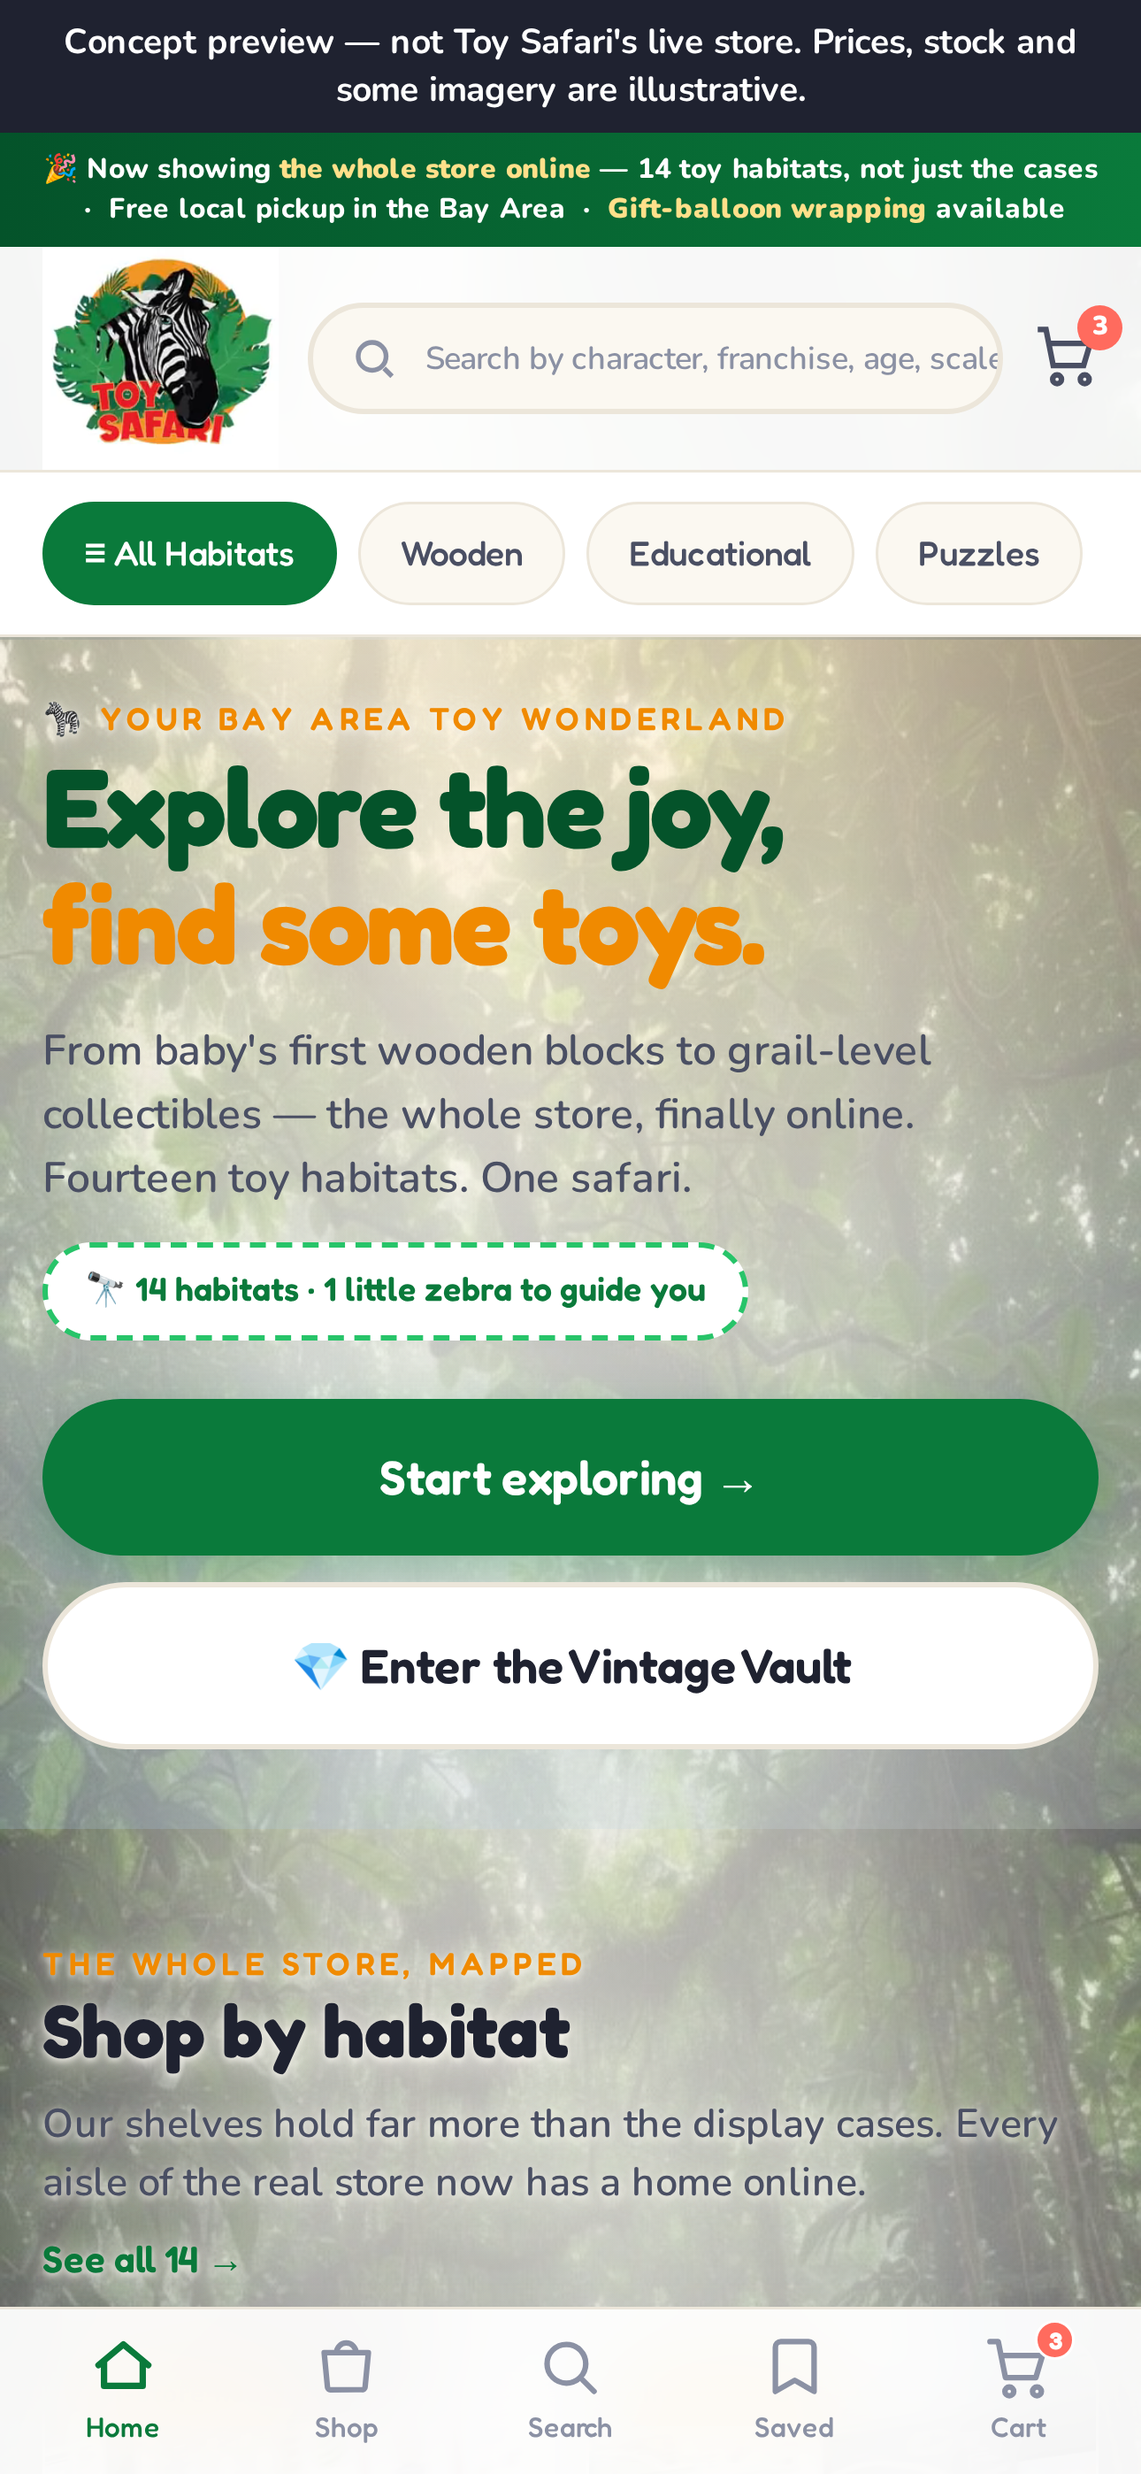
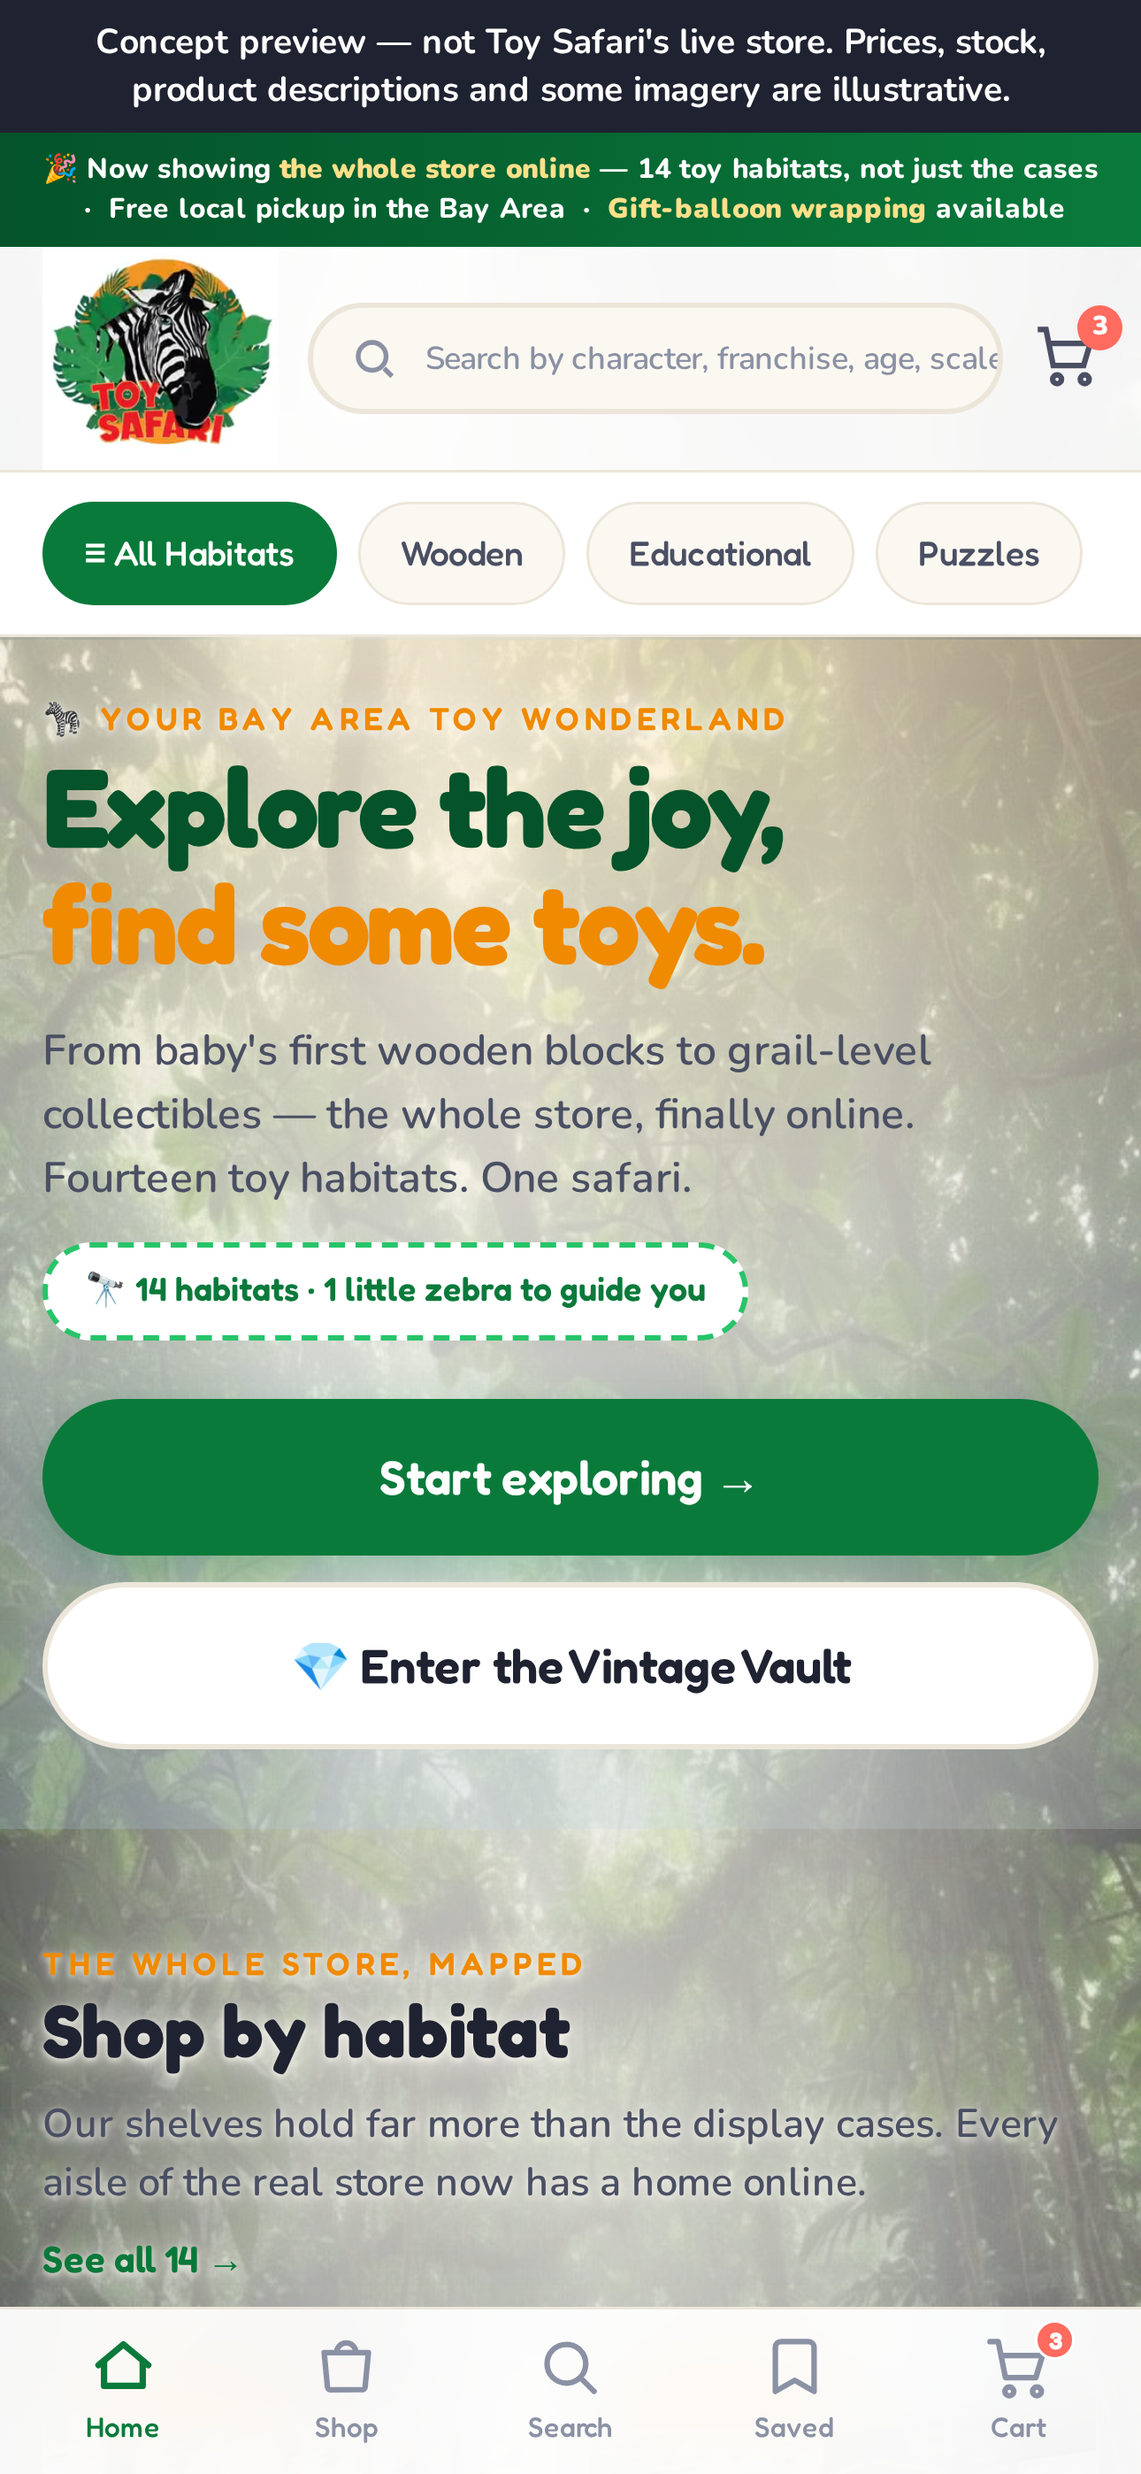
fix(content): remove invented counts + deck COA claim; strip discloses descriptions
Applies merritt's line: remove a specific fact about a real item or a
specific number nobody verified; disclose generic marketing prose as
illustrative; keep the client's own words.
- pitch deck: drop "certificate of authenticity included" (same Ahsoka
  claim #6 removed from the product page; the deck has no strip)
- category.html: drop "96 authenticated pieces, every condition documented"
- shop.html: "300+ signed & sealed grails" -> "signed & sealed grails"
- strip on 11 pages now discloses product descriptions as illustrative,
  covering "each authenticated", the categories.json tagline and the
  product page's condition copy
- re-shot the deck's 3 site screenshots so their strip matches
Kept: assets/data_p1.json "SWAU authenticated item" (client's own catalogue).

Claude-Session: https://claude.ai/code/session_011YC7QPa91iyFuK1BhfujVt

Head: toysafari-pitch

Changed region(s): [[0.062, 0.0, 0.9302, 0.0622], [0.093, 0.0933, 0.186, 0.1867]]

diff --git a/shop.html b/shop.html
@@ -25,7 +25,7 @@
   .shop-note{background:var(--amber-soft,#fff3d6);border:1px solid var(--amber,#ffce6b);border-radius:14px;padding:14px 18px;font-weight:700;color:var(--ink,#2a2118);font-size:14px;margin:18px 0}
   @media(max-width:760px){.shop-hero{padding:24px 22px}.shop-hero h1{font-size:26px}.cat-sec-head h2{font-size:19px}.cat-sec-head .em{font-size:27px}}
 </style></head>
-<body class=""><div class="concept-strip" role="note">Concept preview — not Toy Safari's live store. Prices, stock and some imagery are illustrative.</div><div class="promo">🎉 Now showing <b>the whole store online</b> — 14 toy habitats, not just the cases &nbsp;·&nbsp; Free local pickup in the Bay Area &nbsp;·&nbsp; <b>Gift-balloon wrapping</b> available</div>
+<body class=""><div class="concept-strip" role="note">Concept preview — not Toy Safari's live store. Prices, stock, product descriptions and some imagery are illustrative.</div><div class="promo">🎉 Now showing <b>the whole store online</b> — 14 toy habitats, not just the cases &nbsp;·&nbsp; Free local pickup in the Bay Area &nbsp;·&nbsp; <b>Gift-balloon wrapping</b> available</div>
 <header class="hdr">
   <div class="wrap"><div class="hdr-row">
     <a class="brand" href="index.html"><img src="assets/img/zebra.png" alt="Toy Safari">
@@ -90,7 +90,7 @@
 
   <section class="cat-sec" id="books"><div class="cat-sec-head"><div class="l"><span class="em">📚</span><div><h2>Children's Books</h2><div class="tl">Board books to early readers</div></div></div><div class="r"><span class="ct" data-catalog-count="books">—</span> in stock<a class="va" href="category.html">View all →</a></div></div><div class="cat-grid" data-catalog="books" data-limit="10"></div></section>
 
-  <div class="shop-note" style="text-align:center">💎 Looking for authenticated collector pieces? The <a href="category.html" style="color:var(--blue-deep,#2f5fa8);font-weight:800">Vintage Vault →</a> holds 300+ signed &amp; sealed grails.</div>
+  <div class="shop-note" style="text-align:center">💎 Looking for authenticated collector pieces? The <a href="category.html" style="color:var(--blue-deep,#2f5fa8);font-weight:800">Vintage Vault →</a> holds signed &amp; sealed grails.</div>
 </div>
 <footer class="ft"><div class="wrap">
       <div class="ft-grid">

diff --git a/index.html b/index.html
@@ -7,7 +7,7 @@
 <meta name="apple-mobile-web-app-title" content="Toy Safari">
 <title>Toy Safari — Explore the joy, find some toys</title>
 <link rel="stylesheet" href="assets/css/safari.css"></head>
-<body class=""><div class="concept-strip" role="note">Concept preview — not Toy Safari's live store. Prices, stock and some imagery are illustrative.</div><div class="promo">🎉 Now showing <b>the whole store online</b> — 14 toy habitats, not just the cases &nbsp;·&nbsp; Free local pickup in the Bay Area &nbsp;·&nbsp; <b>Gift-balloon wrapping</b> available</div>
+<body class=""><div class="concept-strip" role="note">Concept preview — not Toy Safari's live store. Prices, stock, product descriptions and some imagery are illustrative.</div><div class="promo">🎉 Now showing <b>the whole store online</b> — 14 toy habitats, not just the cases &nbsp;·&nbsp; Free local pickup in the Bay Area &nbsp;·&nbsp; <b>Gift-balloon wrapping</b> available</div>
 <header class="hdr">
   <div class="wrap"><div class="hdr-row">
     <a class="brand" href="index.html"><video class="brand-mark" autoplay muted loop playsinline poster="assets/brand/logo-mark-poster.png" aria-label="Toy Safari"><source src="assets/brand/logo-mark.webm" type="video/webm"><source src="assets/brand/logo-mark.mp4" type="video/mp4"><picture><source type="image/avif" srcset="assets/brand/logo-mark-poster.avif"><source type="image/webp" srcset="assets/brand/logo-mark-poster.webp"><img width="240" height="226" decoding="async" loading="lazy" src="assets/brand/logo-mark-poster.png" alt="Toy Safari"></picture></video>

diff --git a/category.html b/category.html
@@ -7,7 +7,7 @@
 <meta name="apple-mobile-web-app-title" content="Toy Safari">
 <title>Star Wars Collectibles — Toy Safari</title>
 <link rel="stylesheet" href="assets/css/safari.css"></head>
-<body class=""><div class="concept-strip" role="note">Concept preview — not Toy Safari's live store. Prices, stock and some imagery are illustrative.</div><div class="promo">🎉 Now showing <b>the whole store online</b> — 14 toy habitats, not just the cases &nbsp;·&nbsp; Free local pickup in the Bay Area &nbsp;·&nbsp; <b>Gift-balloon wrapping</b> available</div>
+<body class=""><div class="concept-strip" role="note">Concept preview — not Toy Safari's live store. Prices, stock, product descriptions and some imagery are illustrative.</div><div class="promo">🎉 Now showing <b>the whole store online</b> — 14 toy habitats, not just the cases &nbsp;·&nbsp; Free local pickup in the Bay Area &nbsp;·&nbsp; <b>Gift-balloon wrapping</b> available</div>
 <header class="hdr">
   <div class="wrap"><div class="hdr-row">
     <a class="brand" href="index.html"><img src="assets/img/zebra.png" alt="Toy Safari">
@@ -44,7 +44,7 @@
   <div class="cat-hero">
     <div><span class="eyebrow" style="color:#9dc0f0">💎 Vintage Vault · Franchise</span>
       <h1>Star Wars Collectibles</h1>
-      <p>Sealed Hot Toys, signed Vintage Collection figures, and vintage Kenner — 96 authenticated pieces, every condition documented.</p></div>
+      <p>Sealed Hot Toys, signed Vintage Collection figures, and vintage Kenner.</p></div>
     <div class="emoji">🚀</div>
   </div>
   <div class="mfilter">

diff --git a/pitch/index.html b/pitch/index.html
@@ -467,7 +467,7 @@ h1,h2,h3,h4,.disp{font-family:'Fredoka',sans-serif;font-weight:600;line-height:1
     <div class="col after"><div class="lab">✅ After — rich, accurate, search-optimized</div>
       <div class="pp"><div class="ptitle">Ahsoka Tano — The Vintage Collection, Signed by Ashley Eckstein</div>
         <div class="pprice">$100.00</div>
-        <div class="rich"><b>A grail for any Clone Wars collector.</b> This 3.75-inch Ahsoka Tano from Hasbro's premium Vintage Collection comes personally autographed by Ashley Eckstein — the voice of Ahsoka across <i>The Clone Wars</i> and <i>Rebels</i>. Factory-sealed on the original card; certificate of authenticity included…
+        <div class="rich"><b>A grail for any Clone Wars collector.</b> This 3.75-inch Ahsoka Tano from Hasbro's premium Vintage Collection comes personally autographed by Ashley Eckstein — the voice of Ahsoka across <i>The Clone Wars</i> and <i>Rebels</i>. Factory-sealed on the original card…
           <div class="chips"><span>Character: Ahsoka Tano</span><span>Scale: 3.75"</span><span>Sealed · Signed</span><span>COA ✓</span></div>
           <div class="seo">SEO: keyword-rich · product schema · breadcrumbs · ranks &amp; converts</div>
         </div>

diff --git a/product.html b/product.html
@@ -7,7 +7,7 @@
 <meta name="apple-mobile-web-app-title" content="Toy Safari">
 <title>Ahsoka -3.5 inch- The Vintage Collection- Signed By Ashley Eckstein — Toy Safari</title>
 <link rel="stylesheet" href="assets/css/safari.css"></head>
-<body class="is-pdp"><div class="concept-strip" role="note">Concept preview — not Toy Safari's live store. Prices, stock and some imagery are illustrative.</div><div class="promo">🎉 Now showing <b>the whole store online</b> — 14 toy habitats, not just the cases &nbsp;·&nbsp; Free local pickup in the Bay Area &nbsp;·&nbsp; <b>Gift-balloon wrapping</b> available</div>
+<body class="is-pdp"><div class="concept-strip" role="note">Concept preview — not Toy Safari's live store. Prices, stock, product descriptions and some imagery are illustrative.</div><div class="promo">🎉 Now showing <b>the whole store online</b> — 14 toy habitats, not just the cases &nbsp;·&nbsp; Free local pickup in the Bay Area &nbsp;·&nbsp; <b>Gift-balloon wrapping</b> available</div>
 <header class="hdr">
   <div class="wrap"><div class="hdr-row">
     <a class="brand" href="index.html"><img src="assets/img/zebra.png" alt="Toy Safari">

diff --git a/index-mega.html b/index-mega.html
@@ -7,7 +7,7 @@
 <meta name="apple-mobile-web-app-title" content="Toy Safari">
 <title>Toy Safari — Explore the joy, find some toys</title>
 <link rel="stylesheet" href="assets/css/safari.css"></head>
-<body class="mega-open"><div class="concept-strip" role="note">Concept preview — not Toy Safari's live store. Prices, stock and some imagery are illustrative.</div><div class="promo">🎉 Now showing <b>the whole store online</b> — 14 toy habitats, not just the cases &nbsp;·&nbsp; Free local pickup in the Bay Area &nbsp;·&nbsp; <b>Gift-balloon wrapping</b> available</div>
+<body class="mega-open"><div class="concept-strip" role="note">Concept preview — not Toy Safari's live store. Prices, stock, product descriptions and some imagery are illustrative.</div><div class="promo">🎉 Now showing <b>the whole store online</b> — 14 toy habitats, not just the cases &nbsp;·&nbsp; Free local pickup in the Bay Area &nbsp;·&nbsp; <b>Gift-balloon wrapping</b> available</div>
 <header class="hdr">
   <div class="wrap"><div class="hdr-row">
     <a class="brand" href="index.html"><img src="assets/img/zebra.png" alt="Toy Safari">

diff --git a/index-search.html b/index-search.html
@@ -7,7 +7,7 @@
 <meta name="apple-mobile-web-app-title" content="Toy Safari">
 <title>Toy Safari — Explore the joy, find some toys</title>
 <link rel="stylesheet" href="assets/css/safari.css"></head>
-<body class="searching"><div class="concept-strip" role="note">Concept preview — not Toy Safari's live store. Prices, stock and some imagery are illustrative.</div><div class="promo">🎉 Now showing <b>the whole store online</b> — 14 toy habitats, not just the cases &nbsp;·&nbsp; Free local pickup in the Bay Area &nbsp;·&nbsp; <b>Gift-balloon wrapping</b> available</div>
+<body class="searching"><div class="concept-strip" role="note">Concept preview — not Toy Safari's live store. Prices, stock, product descriptions and some imagery are illustrative.</div><div class="promo">🎉 Now showing <b>the whole store online</b> — 14 toy habitats, not just the cases &nbsp;·&nbsp; Free local pickup in the Bay Area &nbsp;·&nbsp; <b>Gift-balloon wrapping</b> available</div>
 <header class="hdr">
   <div class="wrap"><div class="hdr-row">
     <a class="brand" href="index.html"><img src="assets/img/zebra.png" alt="Toy Safari">

diff --git a/product-new.html b/product-new.html
@@ -7,7 +7,7 @@
 <meta name="apple-mobile-web-app-title" content="Toy Safari">
 <title>Pretendables Backyard Pizza Oven Set — Toy Safari</title>
 <link rel="stylesheet" href="assets/css/safari.css"></head>
-<body class="is-pdp"><div class="concept-strip" role="note">Concept preview — not Toy Safari's live store. Prices, stock and some imagery are illustrative.</div><div class="promo">🎉 Now showing <b>the whole store online</b> — 14 toy habitats, not just the cases &nbsp;·&nbsp; Free local pickup in the Bay Area &nbsp;·&nbsp; <b>Gift-balloon wrapping</b> available</div>
+<body class="is-pdp"><div class="concept-strip" role="note">Concept preview — not Toy Safari's live store. Prices, stock, product descriptions and some imagery are illustrative.</div><div class="promo">🎉 Now showing <b>the whole store online</b> — 14 toy habitats, not just the cases &nbsp;·&nbsp; Free local pickup in the Bay Area &nbsp;·&nbsp; <b>Gift-balloon wrapping</b> available</div>
 <header class="hdr">
   <div class="wrap"><div class="hdr-row">
     <a class="brand" href="index.html"><img src="assets/img/zebra.png" alt="Toy Safari">

diff --git a/200.html b/200.html
@@ -7,7 +7,7 @@
 <meta name="apple-mobile-web-app-title" content="Toy Safari">
 <title>Toy Safari — Explore the joy, find some toys</title>
 <link rel="stylesheet" href="assets/css/safari.css"></head>
-<body class=""><div class="concept-strip" role="note">Concept preview — not Toy Safari's live store. Prices, stock and some imagery are illustrative.</div><div class="promo">🎉 Now showing <b>the whole store online</b> — 14 toy habitats, not just the cases &nbsp;·&nbsp; Free local pickup in the Bay Area &nbsp;·&nbsp; <b>Gift-balloon wrapping</b> available</div>
+<body class=""><div class="concept-strip" role="note">Concept preview — not Toy Safari's live store. Prices, stock, product descriptions and some imagery are illustrative.</div><div class="promo">🎉 Now showing <b>the whole store online</b> — 14 toy habitats, not just the cases &nbsp;·&nbsp; Free local pickup in the Bay Area &nbsp;·&nbsp; <b>Gift-balloon wrapping</b> available</div>
 <header class="hdr">
   <div class="wrap"><div class="hdr-row">
     <a class="brand" href="index.html"><img src="assets/img/zebra.png" alt="Toy Safari">

diff --git a/category-learn.html b/category-learn.html
@@ -7,7 +7,7 @@
 <meta name="apple-mobile-web-app-title" content="Toy Safari">
 <title>Learning &amp; Pretend Play — Toy Safari</title>
 <link rel="stylesheet" href="assets/css/safari.css"></head>
-<body class=""><div class="concept-strip" role="note">Concept preview — not Toy Safari's live store. Prices, stock and some imagery are illustrative.</div><div class="promo">🎉 Now showing <b>the whole store online</b> — 14 toy habitats, not just the cases &nbsp;·&nbsp; Free local pickup in the Bay Area &nbsp;·&nbsp; <b>Gift-balloon wrapping</b> available</div>
+<body class=""><div class="concept-strip" role="note">Concept preview — not Toy Safari's live store. Prices, stock, product descriptions and some imagery are illustrative.</div><div class="promo">🎉 Now showing <b>the whole store online</b> — 14 toy habitats, not just the cases &nbsp;·&nbsp; Free local pickup in the Bay Area &nbsp;·&nbsp; <b>Gift-balloon wrapping</b> available</div>
 <header class="hdr">
   <div class="wrap"><div class="hdr-row">
     <a class="brand" href="index.html"><img src="assets/img/zebra.png" alt="Toy Safari">

diff --git a/gift.html b/gift.html
@@ -34,7 +34,7 @@
   .gf-note{font-size:12px;color:var(--muted,#9a8f7d);font-weight:600;margin-top:16px;line-height:1.5}
   @media(max-width:820px){.gf-wrap{grid-template-columns:1fr}.gf-panel{position:static}}
 </style></head>
-<body class=""><div class="concept-strip" role="note">Concept preview — not Toy Safari's live store. Prices, stock and some imagery are illustrative.</div><div class="promo">🎁 <b>Gift Finder</b> — answer three quick questions, get a hand-picked shortlist &nbsp;·&nbsp; Free gift-balloon wrapping &nbsp;·&nbsp; Local pickup in the Bay Area</div>
+<body class=""><div class="concept-strip" role="note">Concept preview — not Toy Safari's live store. Prices, stock, product descriptions and some imagery are illustrative.</div><div class="promo">🎁 <b>Gift Finder</b> — answer three quick questions, get a hand-picked shortlist &nbsp;·&nbsp; Free gift-balloon wrapping &nbsp;·&nbsp; Local pickup in the Bay Area</div>
 <header class="hdr">
   <div class="wrap"><div class="hdr-row">
     <a class="brand" href="index.html"><img src="assets/img/zebra.png" alt="Toy Safari">

diff --git a/ai-studio.html b/ai-studio.html
@@ -7,7 +7,7 @@
 <meta name="apple-mobile-web-app-title" content="Toy Safari">
 <title>AI Catalog Studio — Toy Safari</title>
 <link rel="stylesheet" href="assets/css/safari.css"></head>
-<body class=""><div class="concept-strip" role="note">Concept preview — not Toy Safari's live store. Prices, stock and some imagery are illustrative.</div><div class="promo">🎉 Now showing <b>the whole store online</b> — 14 toy habitats, not just the cases &nbsp;·&nbsp; Free local pickup in the Bay Area &nbsp;·&nbsp; <b>Gift-balloon wrapping</b> available</div>
+<body class=""><div class="concept-strip" role="note">Concept preview — not Toy Safari's live store. Prices, stock, product descriptions and some imagery are illustrative.</div><div class="promo">🎉 Now showing <b>the whole store online</b> — 14 toy habitats, not just the cases &nbsp;·&nbsp; Free local pickup in the Bay Area &nbsp;·&nbsp; <b>Gift-balloon wrapping</b> available</div>
 <header class="hdr">
   <div class="wrap"><div class="hdr-row">
     <a class="brand" href="index.html"><img src="assets/img/zebra.png" alt="Toy Safari">
